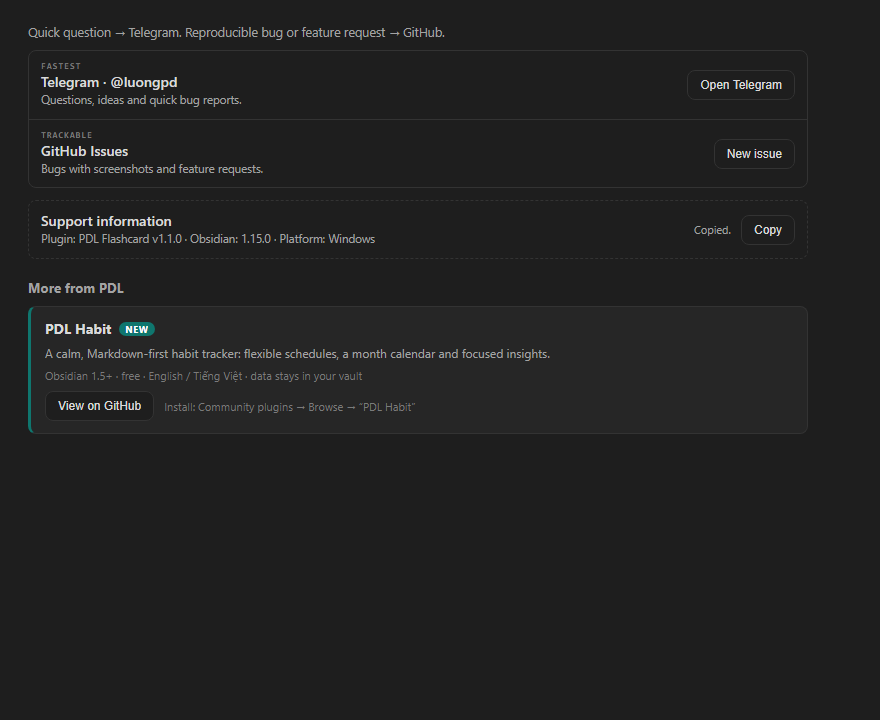
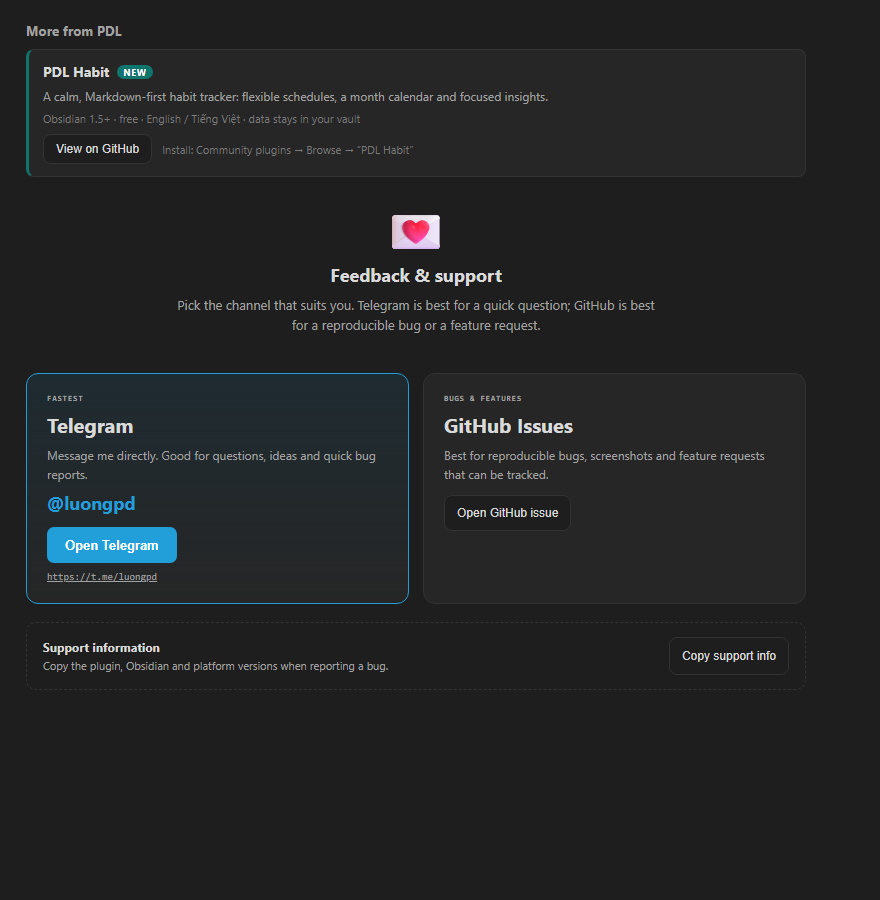
revert(settings): keep the original feedback layout, add PDL Habit card on top
The compact rewrite is undone; the Feedback tab keeps its hero and the two large
channel cards, and the new 'More from PDL' card now sits above them.

diff --git a/src/settings.js b/src/settings.js
@@ -517,66 +517,8 @@ export class PDLFlashcardSettingTab extends PluginSettingTab {
 
   /* ─────────────────── FEEDBACK TAB ─────────────────── */
   _renderFeedback(el) {
-    const GITHUB = "https://github.com/LuongPham16/pdl-flashcard/issues/new";
-    const TELEGRAM = "https://t.me/luongpd";
-    const TELEGRAM_HANDLE = "@luongpd";
-    const manifest = this.plugin.manifest;
-    const platform = Platform.isMacOS ? "macOS" : Platform.isWin ? "Windows" : Platform.isLinux ? "Linux" : Platform.isMobile ? "Mobile" : "Unknown";
-    const diagnostics = [
-      `Plugin: PDL Flashcard v${manifest?.version ?? "?"}`,
-      `Obsidian: ${this.app.version ?? "?"}`,
-      `Platform: ${platform}`
-    ].join("\n");
 
-    el.createEl("p", {
-      cls: "pdl-fb-intro",
-      text: L(
-        "Quick question → Telegram. Reproducible bug or feature request → GitHub.",
-        "Hỏi nhanh → Telegram. Báo lỗi có bước tái hiện hoặc đề xuất tính năng → GitHub."
-      )
-    });
-
-    const list = el.createDiv({ cls: "pdl-fb-list" });
-
-    /* Telegram */
-    const telegramRow = list.createDiv({ cls: "pdl-fb-row" });
-    const telegramMeta = telegramRow.createDiv({ cls: "pdl-fb-row-meta" });
-    telegramMeta.createSpan({ cls: "pdl-fb-kicker", text: L("FASTEST", "NHANH NHẤT") });
-    telegramMeta.createEl("strong", { cls: "pdl-fb-row-title", text: `Telegram · ${TELEGRAM_HANDLE}` });
-    telegramMeta.createSpan({ cls: "pdl-fb-row-desc", text: L("Questions, ideas and quick bug reports.", "Câu hỏi, ý tưởng và báo lỗi nhanh.") });
-    const telegramBtn = telegramRow.createEl("button", { cls: "pdl-fb-secondary", text: L("Open Telegram", "Mở Telegram") });
-    telegramBtn.onclick = () => window.open(TELEGRAM, "_blank", "noopener");
-
-    /* GitHub */
-    const githubRow = list.createDiv({ cls: "pdl-fb-row" });
-    const githubMeta = githubRow.createDiv({ cls: "pdl-fb-row-meta" });
-    githubMeta.createSpan({ cls: "pdl-fb-kicker", text: L("TRACKABLE", "THEO DÕI ĐƯỢC") });
-    githubMeta.createEl("strong", { cls: "pdl-fb-row-title", text: "GitHub Issues" });
-    githubMeta.createSpan({ cls: "pdl-fb-row-desc", text: L("Bugs with screenshots and feature requests.", "Lỗi kèm ảnh chụp và đề xuất tính năng.") });
-    const githubBtn = githubRow.createEl("button", { cls: "pdl-fb-secondary", text: L("New issue", "Tạo issue") });
-    githubBtn.onclick = () => {
-      const body = `### What happened?\n\n\n### Steps to reproduce\n1. \n2. \n3. \n\n### Expected result\n\n\n---\n${diagnostics}`;
-      window.open(`${GITHUB}?title=${encodeURIComponent("[PDL Flashcard] ")}&body=${encodeURIComponent(body)}`, "_blank", "noopener");
-    };
-
-    /* Support information */
-    const support = el.createDiv({ cls: "pdl-fb-support" });
-    const supportMeta = support.createDiv({ cls: "pdl-fb-row-meta" });
-    supportMeta.createEl("strong", { cls: "pdl-fb-row-title", text: L("Support information", "Thông tin hỗ trợ") });
-    supportMeta.createSpan({ cls: "pdl-fb-row-desc", text: diagnostics.split("\n").join(" · ") });
-    const supportActions = support.createDiv({ cls: "pdl-fb-support-actions" });
-    const status = supportActions.createSpan({ cls: "pdl-fb-status" });
-    const copyBtn = supportActions.createEl("button", { cls: "pdl-fb-secondary", text: L("Copy", "Sao chép") });
-    copyBtn.onclick = async () => {
-      try {
-        await navigator.clipboard.writeText(diagnostics);
-        status.setText(L("Copied.", "Đã sao chép."));
-      } catch (_) {
-        status.setText(L("Copy manually.", "Hãy sao chép thủ công."));
-      }
-    };
-
-    /* PDL ecosystem */
+    /* ── PDL ecosystem: introduce the newest plugin first ── */
     el.createEl("h3", { cls: "pdl-fb-eco-title", text: L("More from PDL", "Thêm từ PDL") });
     const eco = el.createDiv({ cls: "pdl-fb-eco" });
     const ecoHead = eco.createDiv({ cls: "pdl-fb-eco-head" });
@@ -597,5 +539,67 @@ export class PDLFlashcardSettingTab extends PluginSettingTab {
     const ecoBtn = ecoActions.createEl("button", { cls: "pdl-fb-secondary", text: L("View on GitHub", "Xem trên GitHub") });
     ecoBtn.onclick = () => window.open("https://github.com/LuongPham16/pdl-habit", "_blank", "noopener");
     ecoActions.createSpan({ cls: "pdl-fb-eco-hint", text: L("Install: Community plugins → Browse → “PDL Habit”", "Cài: Community plugins → Browse → “PDL Habit”") });
+
+    const GITHUB = "https://github.com/LuongPham16/pdl-flashcard/issues/new";
+    const TELEGRAM = "https://t.me/luongpd";
+    const TELEGRAM_HANDLE = "@luongpd";
+    const manifest = this.plugin.manifest;
+    const platform = Platform.isMacOS ? "macOS" : Platform.isWin ? "Windows" : Platform.isLinux ? "Linux" : Platform.isMobile ? "Mobile" : "Unknown";
+    const diagnostics = [
+      `Plugin: PDL Flashcard v${manifest?.version ?? "?"}`,
+      `Obsidian: ${this.app.version ?? "?"}`,
+      `Platform: ${platform}`
+    ].join("\n");
+
+    const hero = el.createDiv({ cls: "pdl-fb-hero" });
+    hero.createDiv({ cls: "pdl-fb-emoji", text: "💌" });
+    const heroTitle = new Setting(hero).setName(L("Feedback & support", "Phản hồi & hỗ trợ")).setHeading();
+    heroTitle.settingEl?.addClass("pdl-fb-title");
+    hero.createEl("p", {
+      text: L(
+        "Pick the channel that suits you. Telegram is best for a quick question; GitHub is best for a reproducible bug or a feature request.",
+        "Chọn kênh phù hợp. Telegram phù hợp để hỏi nhanh; GitHub phù hợp để báo lỗi có bước tái hiện hoặc đề xuất tính năng."
+      ),
+      cls: "pdl-fb-desc"
+    });
+
+    const grid = el.createDiv({ cls: "pdl-fb-contact-grid" });
+    const telegramCard = grid.createDiv({ cls: "pdl-fb-contact is-telegram" });
+    telegramCard.createSpan({ cls: "pdl-fb-contact-kicker", text: L("FASTEST", "NHANH NHẤT") });
+    const telegramTitle = new Setting(telegramCard).setName("Telegram").setHeading();
+    telegramTitle.settingEl?.addClass("pdl-fb-contact-title");
+    telegramCard.createEl("p", { text: L("Message me directly. Good for questions, ideas and quick bug reports.", "Nhắn trực tiếp. Phù hợp câu hỏi, ý tưởng và báo lỗi nhanh.") });
+    telegramCard.createEl("strong", { cls: "pdl-fb-handle", text: TELEGRAM_HANDLE });
+    const telegramBtn = telegramCard.createEl("button", { cls: "pdl-fb-telegram", text: L("Open Telegram", "Mở Telegram") });
+    telegramBtn.onclick = () => window.open(TELEGRAM, "_blank", "noopener");
+    const telegramLink = telegramCard.createEl("a", { text: TELEGRAM, href: TELEGRAM, cls: "pdl-fb-contact-link" });
+    telegramLink.setAttr("target", "_blank");
+    telegramLink.setAttr("rel", "noopener");
+
+    const githubCard = grid.createDiv({ cls: "pdl-fb-contact is-github" });
+    githubCard.createSpan({ cls: "pdl-fb-contact-kicker", text: L("BUGS & FEATURES", "LỖI & TÍNH NĂNG") });
+    const githubTitle = new Setting(githubCard).setName("GitHub Issues").setHeading();
+    githubTitle.settingEl?.addClass("pdl-fb-contact-title");
+    githubCard.createEl("p", { text: L("Best for reproducible bugs, screenshots and feature requests that can be tracked.", "Phù hợp báo lỗi có bước tái hiện, ảnh chụp và đề xuất cần theo dõi.") });
+    const githubBtn = githubCard.createEl("button", { cls: "pdl-fb-secondary", text: L("Open GitHub issue", "Mở issue GitHub") });
+    githubBtn.onclick = () => {
+      const body = `### What happened?\n\n\n### Steps to reproduce\n1. \n2. \n3. \n\n### Expected result\n\n\n---\n${diagnostics}`;
+      window.open(`${GITHUB}?title=${encodeURIComponent("[PDL Flashcard] ")}&body=${encodeURIComponent(body)}`, "_blank", "noopener");
+    };
+
+    const support = el.createDiv({ cls: "pdl-fb-diagnostics" });
+    const supportCopy = support.createDiv();
+    supportCopy.createEl("strong", { text: L("Support information", "Thông tin hỗ trợ") });
+    supportCopy.createSpan({ text: L("Copy the plugin, Obsidian and platform versions when reporting a bug.", "Sao chép phiên bản plugin, Obsidian và nền tảng khi báo lỗi.") });
+    const status = support.createDiv({ cls: "pdl-fb-status" });
+    const copyBtn = support.createEl("button", { cls: "pdl-fb-secondary", text: L("Copy support info", "Sao chép thông tin hỗ trợ") });
+    copyBtn.onclick = async () => {
+      try {
+        await navigator.clipboard.writeText(diagnostics);
+        status.setText(L("Copied support information.", "Đã sao chép thông tin hỗ trợ."));
+      } catch (_) {
+        status.setText(L("Could not copy automatically. Select the text and copy it manually.", "Không sao chép tự động được. Hãy bôi đen và sao chép thủ công."));
+      }
+    };
   }
 }

diff --git a/styles.css b/styles.css
@@ -2645,94 +2645,9 @@
   }
 }
 
-/* ── Feedback tab: compact channel rows + PDL ecosystem card ─────────── */
-.pdl-fb-intro {
-  margin: 0 0 10px;
-  color: var(--text-muted);
-  font-size: 12.5px;
-}
-
-.pdl-fb-list {
-  margin: 0 0 12px;
-  border: 1px solid var(--background-modifier-border);
-  border-radius: 8px;
-  overflow: hidden;
-  background: var(--background-primary);
-}
-
-.pdl-fb-row {
-  display: grid;
-  grid-template-columns: minmax(0, 1fr) auto;
-  gap: 14px;
-  align-items: center;
-  padding: 10px 12px;
-}
-
-.pdl-fb-row + .pdl-fb-row {
-  border-top: 1px solid var(--background-modifier-border);
-}
-
-.pdl-fb-row:hover {
-  background: var(--background-modifier-hover);
-}
-
-.pdl-fb-row-meta {
-  display: flex;
-  min-width: 0;
-  flex-direction: column;
-  gap: 1px;
-}
-
-.pdl-fb-kicker {
-  color: var(--text-faint);
-  font-family: var(--font-monospace);
-  font-size: 9px;
-  font-weight: 700;
-  letter-spacing: .09em;
-}
-
-.pdl-fb-row-title {
-  color: var(--text-normal);
-  font-size: 14px;
-  font-weight: 600;
-}
-
-.pdl-fb-row-desc {
-  color: var(--text-muted);
-  font-size: 11.5px;
-  line-height: 1.45;
-}
-
-.pdl-fb-support {
-  display: grid;
-  grid-template-columns: minmax(0, 1fr) auto;
-  gap: 12px;
-  align-items: center;
-  padding: 10px 12px;
-  border: 1px dashed var(--background-modifier-border);
-  border-radius: 8px;
-}
-
-.pdl-fb-support-actions {
-  display: flex;
-  align-items: center;
-  gap: 10px;
-}
-
-.pdl-fb-support .pdl-fb-status {
-  min-height: 0;
-}
-
-.pdl-fb-row .pdl-fb-secondary,
-.pdl-fb-support .pdl-fb-secondary,
-.pdl-fb-eco .pdl-fb-secondary {
-  min-height: 30px;
-  padding: 0 12px;
-  font-size: 12px;
-}
-
+/* ── Feedback tab: PDL ecosystem card ────────────────────────────────── */
 .pdl-fb-eco-title {
-  margin: 20px 0 10px;
+  margin: 0 0 10px;
   color: var(--text-muted);
   font-size: 13px;
   font-weight: 650;
@@ -2743,6 +2658,7 @@
   display: flex;
   flex-direction: column;
   gap: 6px;
+  margin-bottom: 22px;
   padding: 12px 14px;
   border: 1px solid var(--background-modifier-border);
   border-left: 3px solid var(--interactive-accent);
@@ -2791,14 +2707,18 @@
   margin-top: 2px;
 }
 
+.pdl-fb-eco-actions .pdl-fb-secondary {
+  min-height: 30px;
+  padding: 0 12px;
+  font-size: 12px;
+}
+
 .pdl-fb-eco-hint {
   color: var(--text-faint);
   font-size: 11px;
 }
 
-@media (max-width: 620px) {
-  .pdl-fb-row,
-  .pdl-fb-support {
-    grid-template-columns: 1fr;
-  }
+/* tighten the gap between the ecosystem card and the hero below it */
+.pdl-fb-eco + .pdl-fb-hero {
+  padding-top: 6px;
 }
